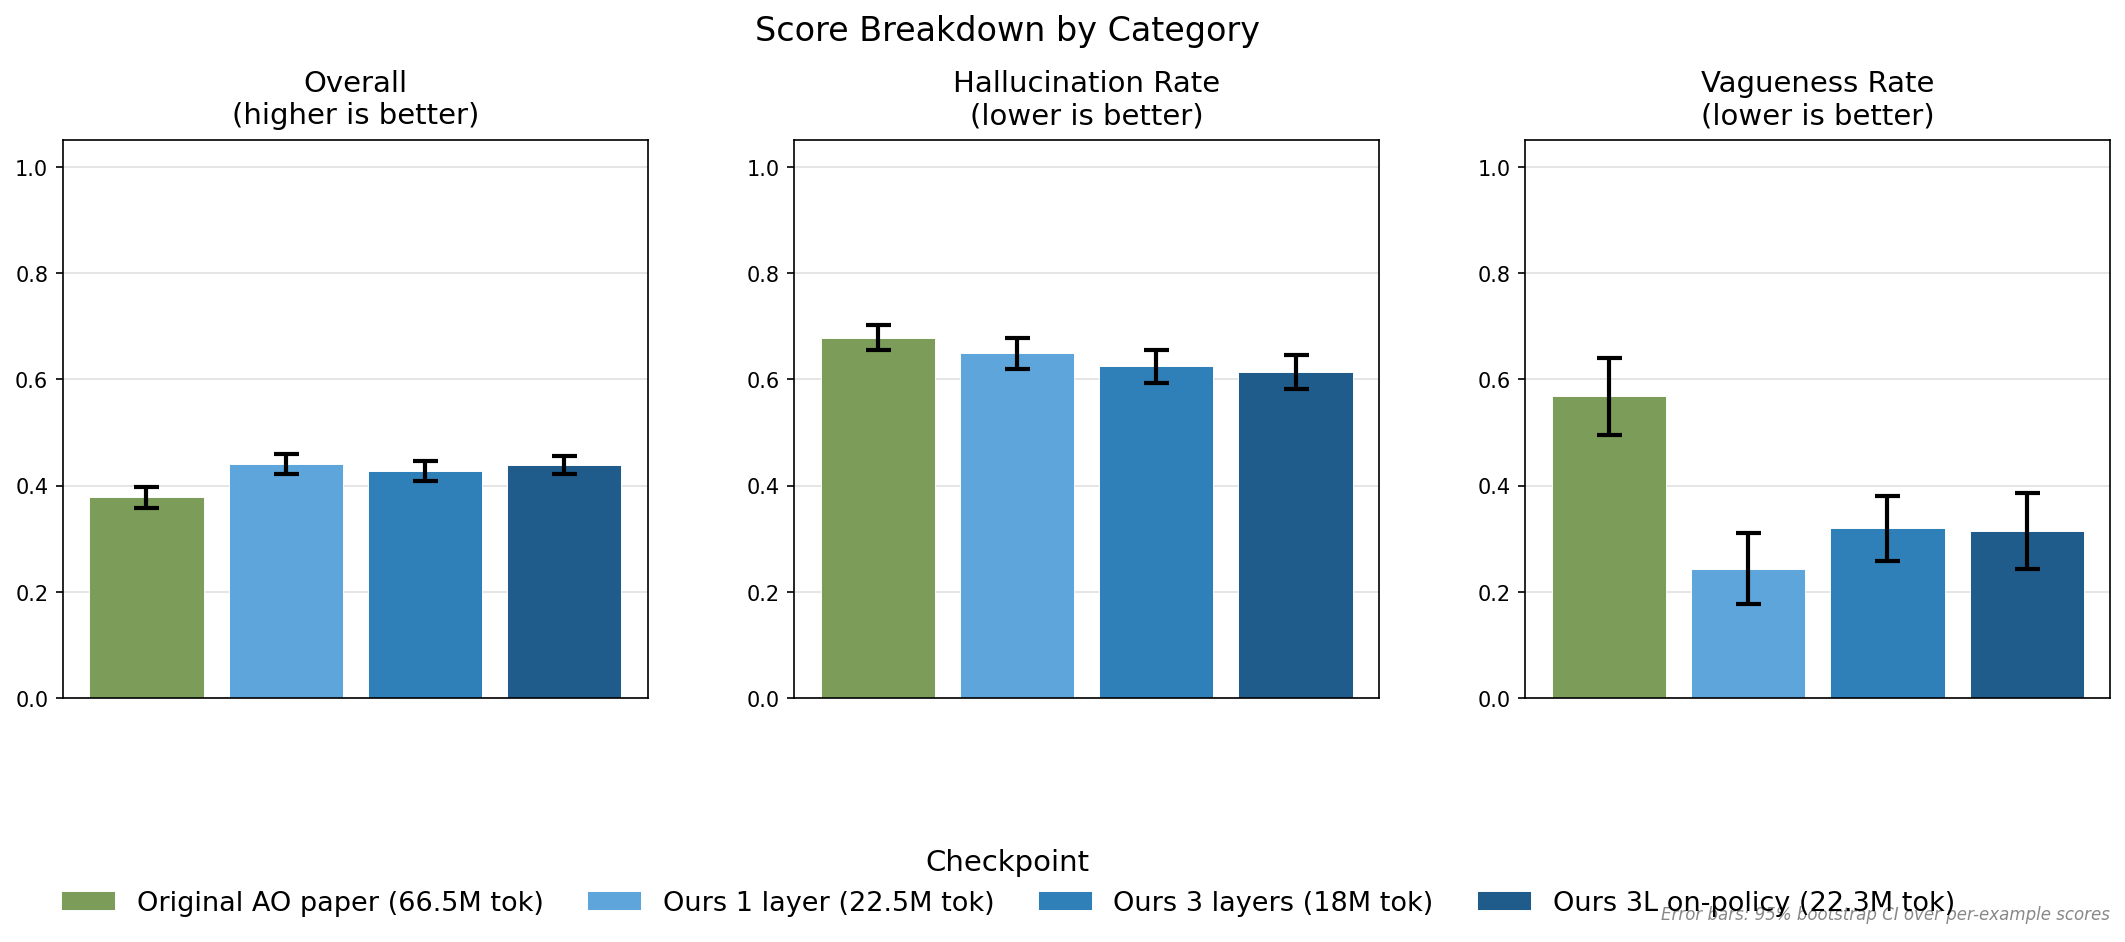
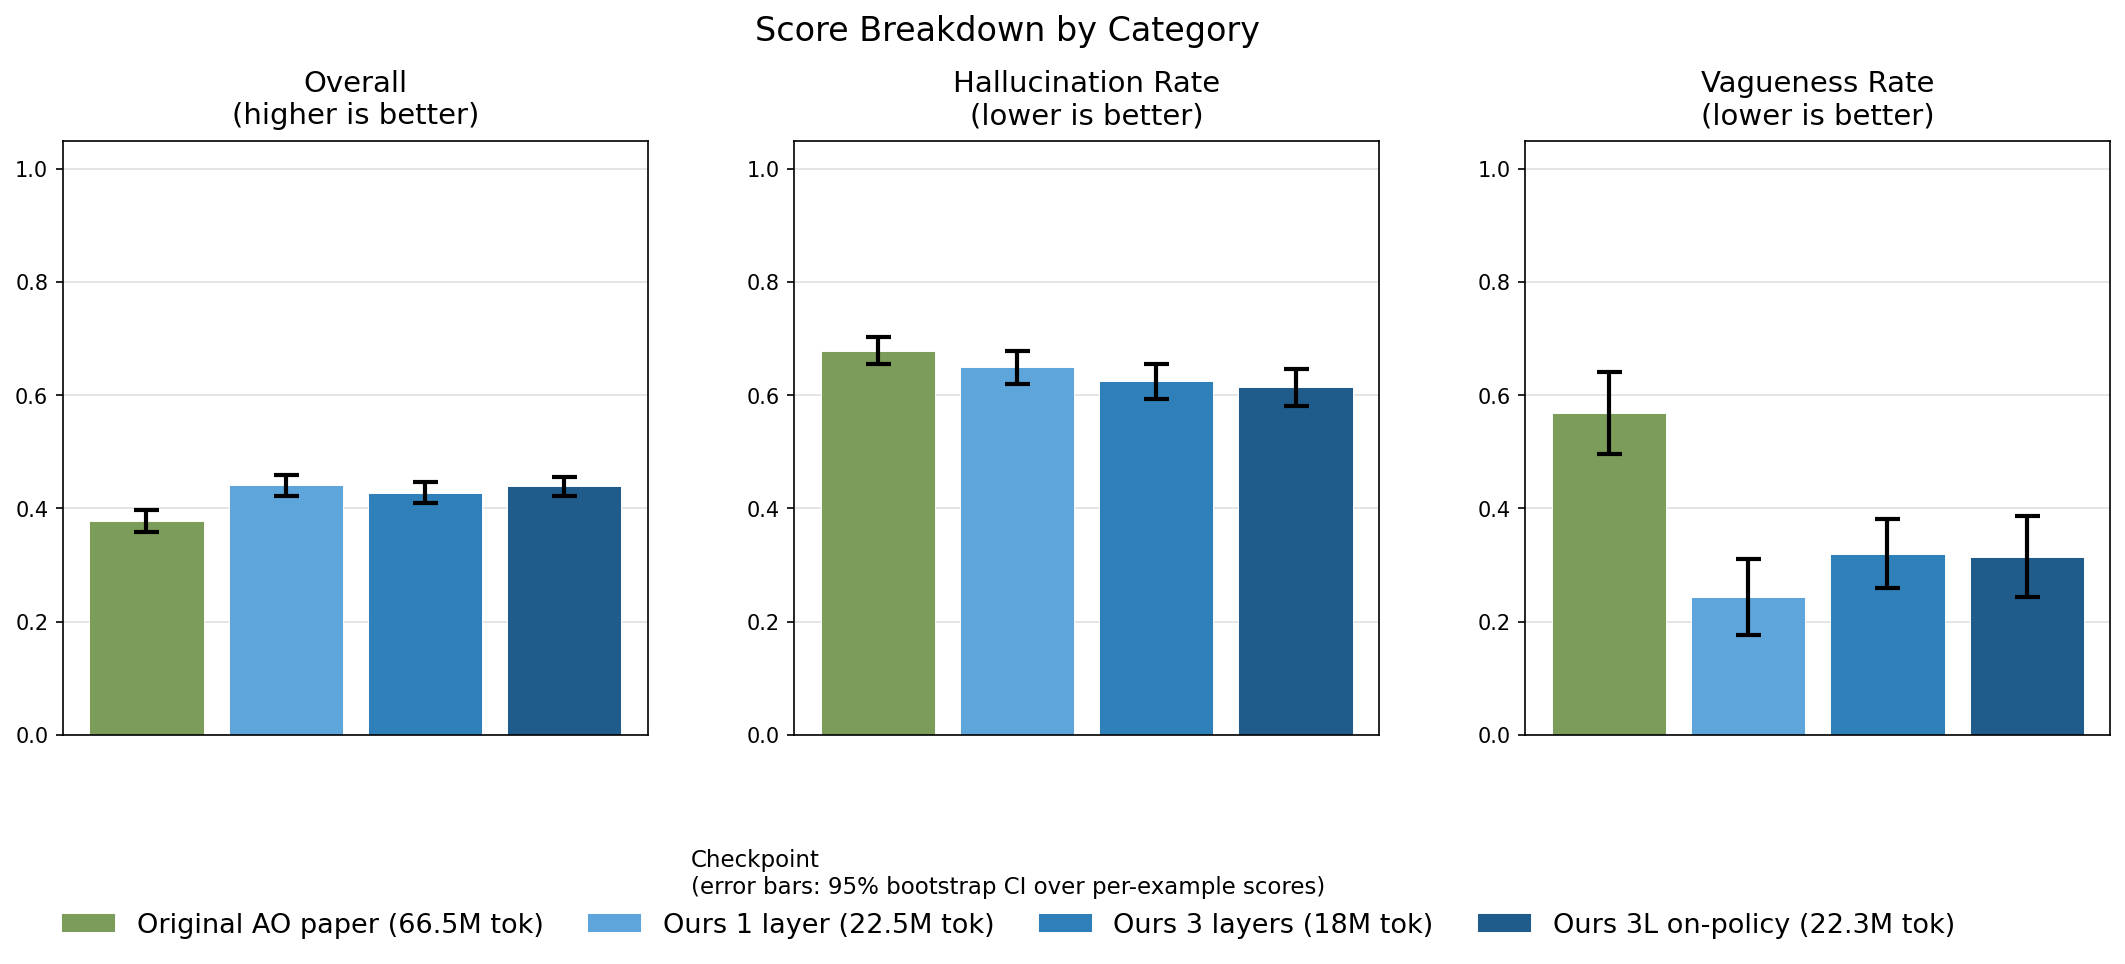
AObench: fix category breakdown annotation placement

diff --git a/AObench/utils/report.py b/AObench/utils/report.py
@@ -664,18 +664,16 @@ def plot_category_breakdown(
         bbox_to_anchor=(0.5, 0.12),
         ncol=min(4, n_verbs),
         fontsize=13,
-        title="Checkpoint",
+        title="Checkpoint\n(error bars: 95% bootstrap CI over per-example scores)",
         frameon=False,
         columnspacing=1.6,
         handlelength=2.0,
     )
     if fig.legends:
-        fig.legends[0].get_title().set_fontsize(14)
+        fig.legends[0].get_title().set_fontsize(11)
 
     fig.suptitle(title, fontsize=16, y=1.02)
-    fig.text(0.99, 0.01, "Error bars: 95% bootstrap CI over per-example scores",
-             ha="right", va="bottom", fontsize=8, color="#888888", style="italic")
-    fig.subplots_adjust(left=0.08, right=0.99, top=0.88, bottom=0.26, wspace=0.25)
+    fig.subplots_adjust(left=0.08, right=0.99, top=0.88, bottom=0.22, wspace=0.25)
     os.makedirs(os.path.dirname(output_path) or ".", exist_ok=True)
     plt.savefig(output_path, dpi=150, bbox_inches="tight")
     plt.close()
